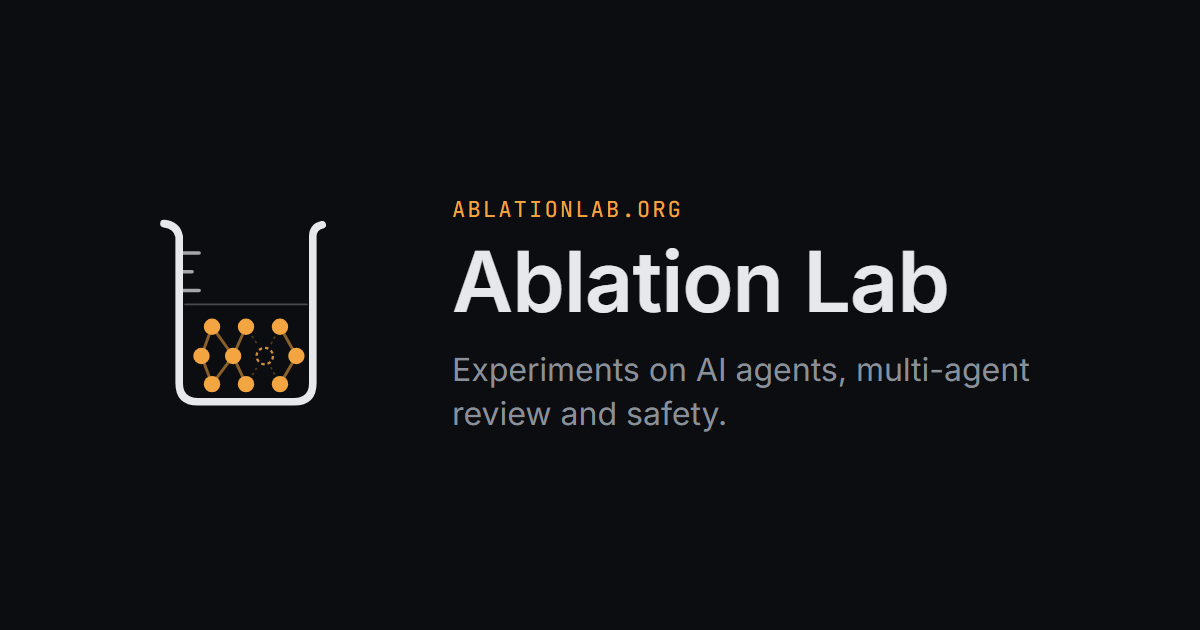
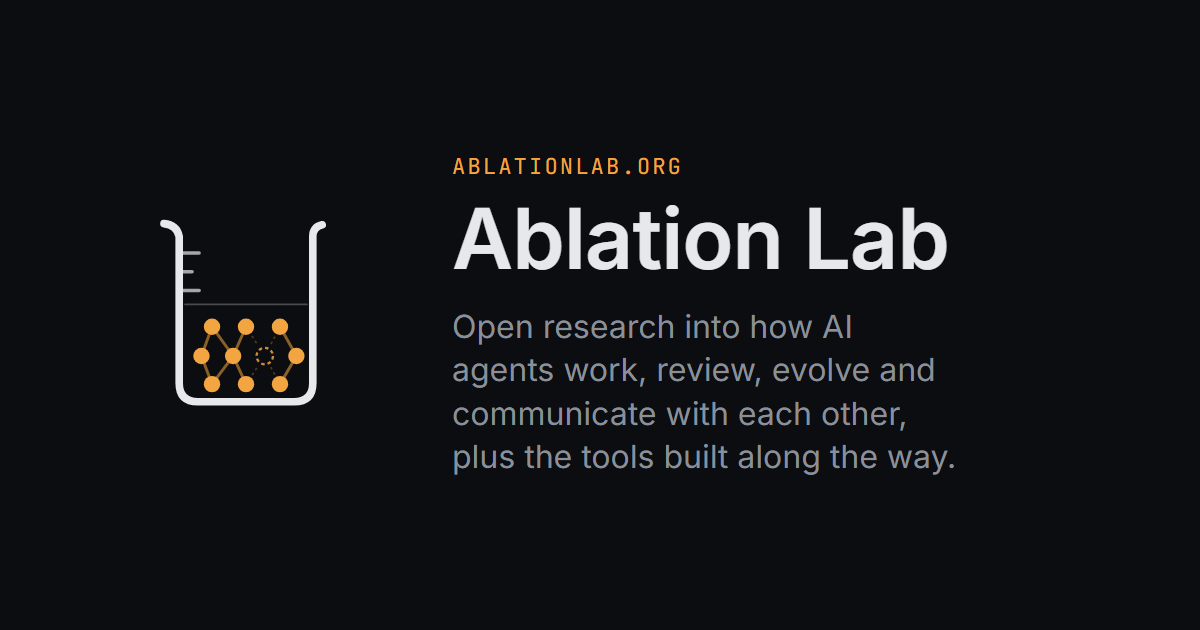
New tagline, matching the org page; regenerate the social preview
The hero now has one line, the same as the org profile README: "Open
research into how AI agents work, review, evolve and communicate with each
other, plus the tools built along the way." It replaces the old tagline and
lede. The meta, Open Graph and Twitter descriptions and the image alt text
use it too, and og-image.png is re-rendered from _source/og-image.html with
the new line.

Changed region(s): [[0.37, 0.3016, 0.8017, 0.5429], [0.37, 0.573, 0.8633, 0.754], [0.37, 0.2413, 0.5858, 0.2714]]

diff --git a/index.html b/index.html
@@ -4,7 +4,7 @@
   <meta charset="utf-8">
   <meta name="viewport" content="width=device-width, initial-scale=1">
   <title>Ablation Lab: AI agent research and Claude plugins</title>
-  <meta name="description" content="Independent research into how AI agents work, review and communicate with each other, and the Claude plugins and Windows app built along the way.">
+  <meta name="description" content="Open research into how AI agents work, review, evolve and communicate with each other, plus the tools built along the way.">
   <meta name="theme-color" content="#0B0D10">
   <meta name="color-scheme" content="dark">
   <link rel="canonical" href="https://ablationlab.org/">
@@ -17,18 +17,18 @@
   <meta property="og:type" content="website">
   <meta property="og:site_name" content="Ablation Lab">
   <meta property="og:title" content="Ablation Lab: AI agent research and Claude plugins">
-  <meta property="og:description" content="Independent research into how AI agents work, review and communicate with each other, and the Claude plugins and Windows app built along the way.">
+  <meta property="og:description" content="Open research into how AI agents work, review, evolve and communicate with each other, plus the tools built along the way.">
   <meta property="og:url" content="https://ablationlab.org/">
   <meta property="og:image" content="https://ablationlab.org/assets/og-image.png">
   <meta property="og:image:width" content="1200">
   <meta property="og:image:height" content="630">
-  <meta property="og:image:alt" content="A beaker holding a small network of amber nodes, beside the words Ablation Lab: Experiments on AI agents, multi-agent review and safety.">
+  <meta property="og:image:alt" content="A beaker holding a small network of amber nodes, beside the words Ablation Lab: Open research into how AI agents work, review, evolve and communicate with each other, plus the tools built along the way.">
   <meta property="og:locale" content="en_GB">
   <meta name="twitter:card" content="summary_large_image">
   <meta name="twitter:title" content="Ablation Lab: AI agent research and Claude plugins">
-  <meta name="twitter:description" content="Independent research into how AI agents work, review and communicate with each other, and the Claude plugins and Windows app built along the way.">
+  <meta name="twitter:description" content="Open research into how AI agents work, review, evolve and communicate with each other, plus the tools built along the way.">
   <meta name="twitter:image" content="https://ablationlab.org/assets/og-image.png">
-  <meta name="twitter:image:alt" content="A beaker holding a small network of amber nodes, beside the words Ablation Lab: Experiments on AI agents, multi-agent review and safety.">
+  <meta name="twitter:image:alt" content="A beaker holding a small network of amber nodes, beside the words Ablation Lab: Open research into how AI agents work, review, evolve and communicate with each other, plus the tools built along the way.">
 
   <link rel="preload" href="/assets/fonts/inter-latin.woff2" as="font" type="font/woff2" crossorigin>
   <link rel="stylesheet" href="/assets/styles.css">
@@ -40,8 +40,7 @@
     <div class="wrap">
       <img class="hero-logo" src="/assets/logo.svg" width="120" height="120" alt="">
       <h1>Ablation Lab</h1>
-      <p class="tagline">Experiments on AI agents, multi-agent review and safety.</p>
-      <p class="lede">Open research into how AI agents work, review and communicate with each other, and where they fall short, plus the tools built along the way.</p>
+      <p class="tagline">Open research into how AI agents work, review, evolve and communicate with each other, plus the tools built along the way.</p>
       <nav class="toc" aria-label="On this page">
         <ul>
           <li><a href="#research">Research</a></li>

diff --git a/_source/og-image.html b/_source/og-image.html
@@ -14,7 +14,7 @@
              text-transform: uppercase; color: #8A9099; }
   .eyebrow span { color: #F2A541; }
   h1 { margin: 14px 0 0; font-size: 84px; font-weight: 600; letter-spacing: -0.01em; line-height: 1.05; }
-  p { margin: 22px 0 0; font-size: 32px; line-height: 1.35; color: #8A9099; max-width: 640px; }
+  p { margin: 22px 0 0; font-size: 32px; line-height: 1.35; color: #8A9099; max-width: 640px; text-wrap: balance; }
 </style>
 </head>
 <body>
@@ -22,7 +22,7 @@
   <div>
     <div class="eyebrow"><span>ablationlab.org</span></div>
     <h1>Ablation Lab</h1>
-    <p>Experiments on AI agents, multi-agent review and safety.</p>
+    <p>Open research into how AI agents work, review, evolve and communicate with each other, plus the tools built along the way.</p>
   </div>
 </body>
 </html>

diff --git a/assets/styles.css b/assets/styles.css
@@ -124,6 +124,7 @@ h1 {
   font-size: clamp(1.125rem, 3.6vw, 1.375rem);
   line-height: 1.45;
   color: var(--muted);
+  max-width: 36rem;
 }
 
 /* Sections */
@@ -245,11 +246,6 @@ h2 {
 }
 
 /* Intro and contents */
-
-.lede {
-  margin: 1.25rem 0 0;
-  max-width: 36rem;
-}
 
 .toc ul {
   list-style: none;
